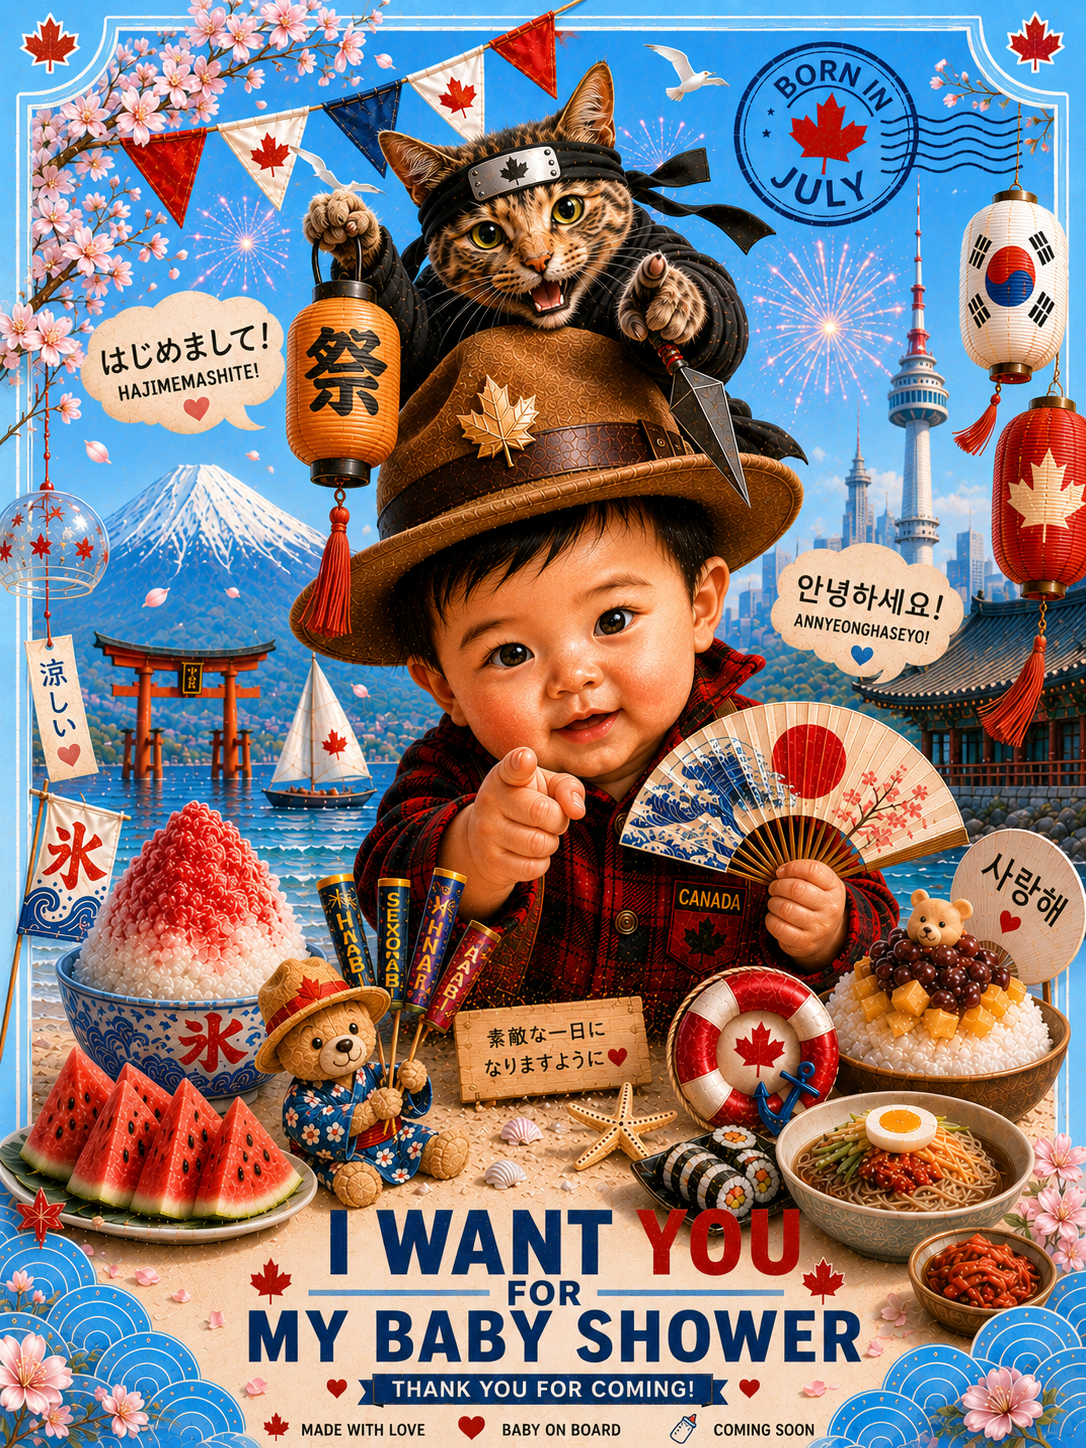
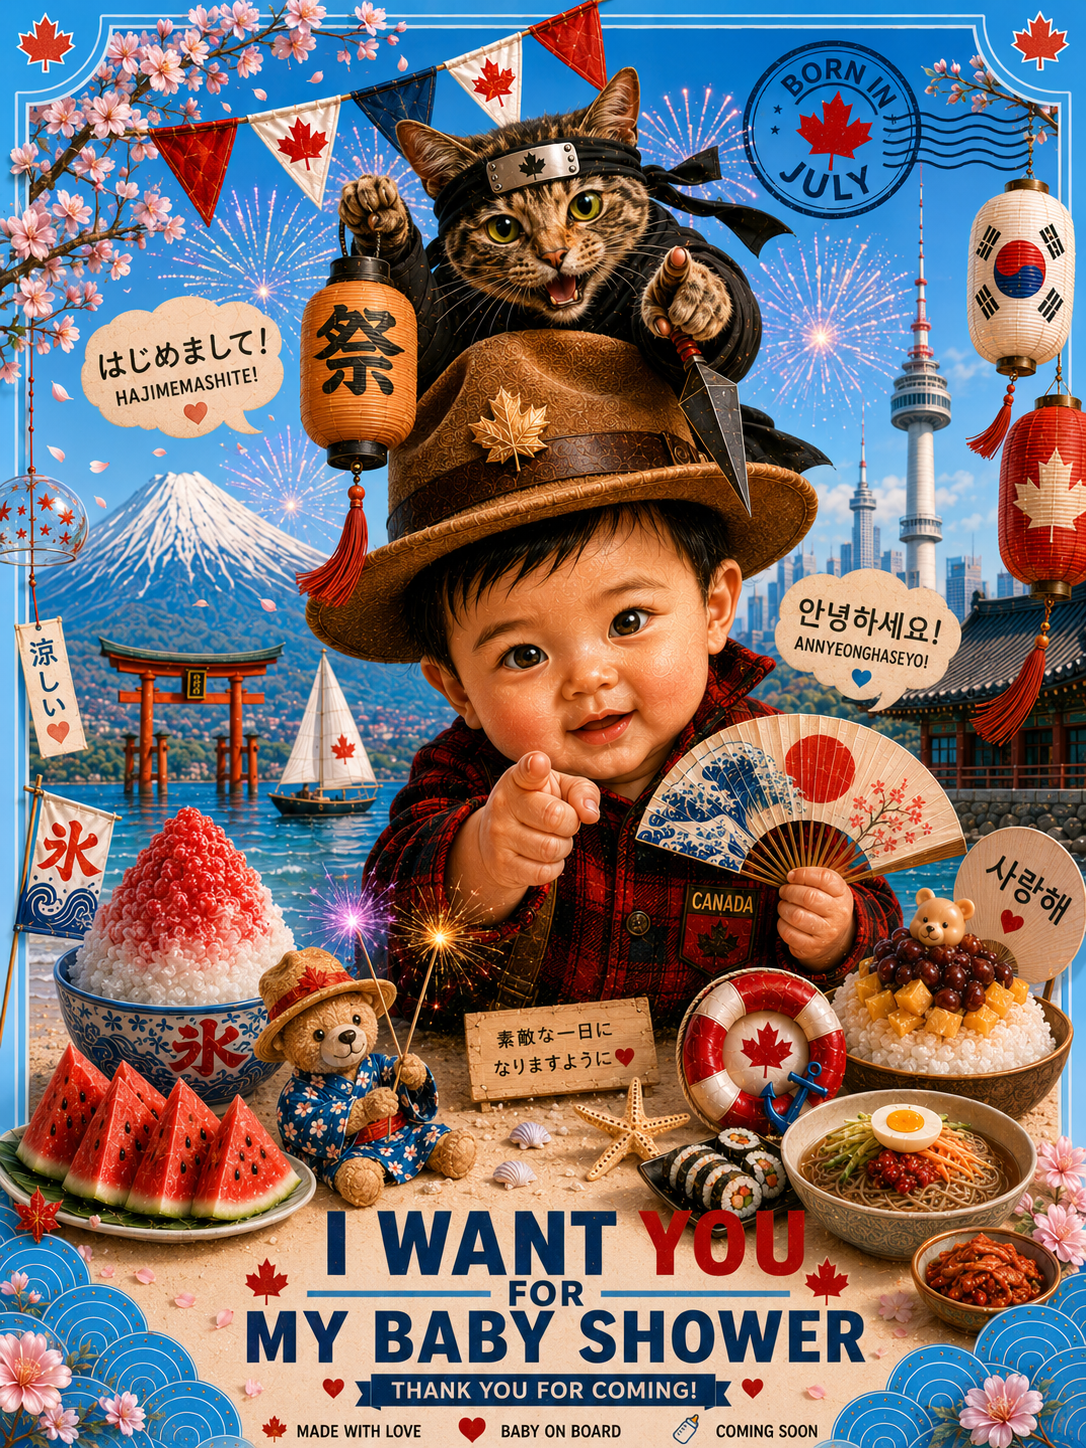
update more

diff --git a/components/organisms/Sidebar.tsx b/components/organisms/Sidebar.tsx
@@ -32,15 +32,13 @@ export const Sidebar: React.FC<SidebarProps> = ({ details }) => {
 
   return (
     <section className="overflow-hidden rounded-[28px] bg-white/90 shadow-card backdrop-blur-lg" aria-label="Baby shower details">
-      <div className="relative bg-gradient-to-br from-ocean to-[#48cae4] px-[18px] pb-[42px] pt-[34px] text-center shadow-[inset_0_4px_20px_rgba(0,119,182,.3)] after:absolute after:bottom-[-1px] after:left-0 after:h-[30px] after:w-full after:bg-white/90 after:[clip-path:ellipse(55%_100%_at_50%_100%)] sm:px-7">
-        <span className="mb-2.5 flex items-center justify-center gap-2.5 text-[#eefcff] drop-shadow-[0_2px_5px_rgba(0,0,0,.16)]" aria-hidden="true">
-          <Icon name="wave" className="h-[34px] w-[34px] fill-none stroke-current stroke-2" />
-          <Icon name="shell" className="h-[34px] w-[34px] fill-none stroke-current stroke-2" />
-          <Icon name="sun" className="h-[34px] w-[34px] fill-none stroke-current stroke-2" />
-          <Icon name="fish" className="h-[34px] w-[34px] fill-none stroke-current stroke-2" />
-        </span>
-        <h1 className="mb-4.5 font-pacifico text-[clamp(2rem,7vw,3.05rem)] leading-[1.05] text-white drop-shadow-[0_2px_8px_rgba(0,0,0,.15)]">Baby Shower!👶</h1>
-        <p className="text-base font-extrabold leading-normal text-[#eefcff]">Celebrating our little summer boy, arriving in July.</p>
+      <div className="relative overflow-hidden bg-gradient-to-br from-ocean to-[#48cae4] pb-6 after:absolute after:bottom-[-1px] after:left-0 after:h-[25px] after:w-full after:bg-white after:[clip-path:ellipse(55%_100%_at_50%_100%)]">
+        {/* eslint-disable-next-line @next/next/no-img-element */}
+        <img 
+          src="/i_want_you_final.png" 
+          alt="Baby Shower Poster" 
+          className="w-full h-auto object-cover"
+        />
       </div>
 
       <motion.div
@@ -52,15 +50,6 @@ export const Sidebar: React.FC<SidebarProps> = ({ details }) => {
         <motion.div variants={itemVariants}><InfoRow icon="calendar" label="Date" value={details.date} /></motion.div>
         <motion.div variants={itemVariants}><InfoRow icon="umbrella" label="Theme" value={details.theme} /></motion.div>
         <motion.div variants={itemVariants}><InfoRow icon="pin" label="Place" value={details.place} onClick={copyAddress} title="Click to copy address" /></motion.div>
-        
-        <motion.div variants={itemVariants} className="mt-2.5 overflow-hidden rounded-[20px] border-2 border-[#b8e8f5] shadow-soft">
-          {/* eslint-disable-next-line @next/next/no-img-element */}
-          <img 
-            src="/i_want_you_final.png" 
-            alt="Baby face poster" 
-            className="w-full h-auto object-cover transition-transform hover:scale-105 duration-500"
-          />
-        </motion.div>
       </motion.div>
     </section>
   );

diff --git a/components/organisms/RSVPForm.tsx b/components/organisms/RSVPForm.tsx
@@ -9,6 +9,7 @@ import { Icon } from '../atoms/Icon';
 import { Button } from '../atoms/Button';
 import { FormField } from '../moleculs/FormField';
 import { Modal } from '../moleculs/Modal';
+import { BabyAnimation } from './BabyAnimation';
 
 const FALLBACK_DIETARY: DietaryOption[] = [
   { key: 'vegetarian', label: 'Vegetarian' },
@@ -23,6 +24,7 @@ const FALLBACK_DIETARY: DietaryOption[] = [
 interface RSVPFormProps {
   onRsvpSuccess?: (rsvpId: string) => void;
   onBabyModeChange: (mode: 'happy' | 'sad') => void;
+  babyMode: 'idle' | 'happy' | 'sad';
 }
 
 const containerVariants = {
@@ -38,7 +40,7 @@ const itemVariants = {
   visible: { opacity: 1, y: 0 },
 };
 
-export const RSVPForm: React.FC<RSVPFormProps> = ({ onRsvpSuccess, onBabyModeChange }) => {
+export const RSVPForm: React.FC<RSVPFormProps> = ({ onRsvpSuccess, onBabyModeChange, babyMode }) => {
   const { data: dietaryData } = useFetch('/api/dietary');
   const dietaryOptions = dietaryData ? toDietaryOptions(dietaryData) : FALLBACK_DIETARY;
 
@@ -266,9 +268,12 @@ export const RSVPForm: React.FC<RSVPFormProps> = ({ onRsvpSuccess, onBabyModeCha
         </motion.div>
 
         <motion.div variants={itemVariants} className="mb-5 rounded-[18px] border border-ocean/10 bg-gradient-to-br from-seafoam to-[#e0f7fa] px-[22px] py-5 shadow-soft">
-          <div className="mb-3.5 flex items-center gap-2 font-pacifico text-[1.05rem] text-ocean">
-            <Icon name="party" className="h-[21px] w-[21px] fill-none stroke-coral stroke-[2.2]" />
-            Will you be joining us?
+          <div className="mb-3.5 flex items-center justify-between gap-2 font-pacifico text-[1.05rem] text-ocean">
+            <div className="flex items-center gap-2">
+              <Icon name="party" className="h-[21px] w-[21px] fill-none stroke-coral stroke-[2.2]" />
+              Will you be joining us?
+            </div>
+            <BabyAnimation mode={babyMode} />
           </div>
           <div className="mb-3 grid gap-2.5">
             <label

diff --git a/components/organisms/BabyAnimation.tsx b/components/organisms/BabyAnimation.tsx
@@ -16,33 +16,20 @@ function lottieSrc(mode: BabyAnimationProps['mode']) {
 
 export const BabyAnimation: React.FC<BabyAnimationProps> = ({ mode }) => {
   return (
-    <div className="flex min-h-[190px] flex-col items-center justify-center px-[18px] pb-2 pt-4 transition-all duration-300">
-      {mode !== 'idle' && (
-        <div
-          className={`relative mb-1.5 animate-pop-in rounded-2xl px-4 py-2 text-sm font-extrabold shadow-[0_3px_10px_rgba(0,0,0,.1)] after:absolute after:bottom-[-10px] after:left-1/2 after:-translate-x-1/2 after:border-[6px] after:border-transparent after:border-t-[inherit] ${mode === 'happy' ? 'bg-[#d4f7e5] text-[#1a6640]' : 'bg-[#ffe0e0] text-[#b91c1c]'}`}
-        >
-          {mode === 'happy' ? 'Yay, see you there!' : 'We will miss you!'}
-        </div>
-      )}
+    <div className="inline-flex items-center gap-2 px-3 py-1.5 rounded-full bg-white/50 border border-ocean/10 shadow-sm animate-pop-in">
       {/* @ts-expect-error lottie-player is a custom element */}
       <lottie-player
         key={mode}
-        class="h-40 w-40 transition-opacity duration-300"
+        class="h-10 w-10 transition-opacity duration-300"
         src={lottieSrc(mode)}
         background="transparent"
         speed="1"
         loop
         autoplay
       />
-      <div
-        className={`min-h-7 text-center font-pacifico text-base ${mode === 'happy' ? 'text-[#2a9d5c]' : mode === 'sad' ? 'text-[#e63946]' : 'text-ocean'}`}
-      >
-        {mode === 'happy'
-          ? 'Yay! Baby is SO excited to meet you!'
-          : mode === 'sad'
-            ? 'Aww... baby will miss you!'
-            : 'Will you come celebrate?'}
-      </div>
+      <span className={`text-[11px] font-black uppercase tracking-wider ${mode === 'happy' ? 'text-[#2a9d5c]' : mode === 'sad' ? 'text-[#e63946]' : 'text-ocean'}`}>
+        {mode === 'happy' ? 'Yay!' : mode === 'sad' ? 'Missing you!' : 'Waiting...'}
+      </span>
     </div>
   );
 };

diff --git a/app/page.tsx b/app/page.tsx
@@ -53,9 +53,6 @@ export default function Home() {
         sidebar={
           <div className="lg:sticky lg:top-0 grid gap-[22px]">
             <Sidebar details={details} />
-            <div className="overflow-hidden rounded-[28px] bg-white/90 shadow-card backdrop-blur-lg">
-              <BabyAnimation mode={babyMode} />
-            </div>
           </div>
         }
         content={
@@ -63,6 +60,7 @@ export default function Home() {
             <RSVPForm
               onRsvpSuccess={setRsvpId}
               onBabyModeChange={setBabyMode}
+              babyMode={babyMode}
             />
 
             <div className="relative my-9 flex items-center justify-center">
